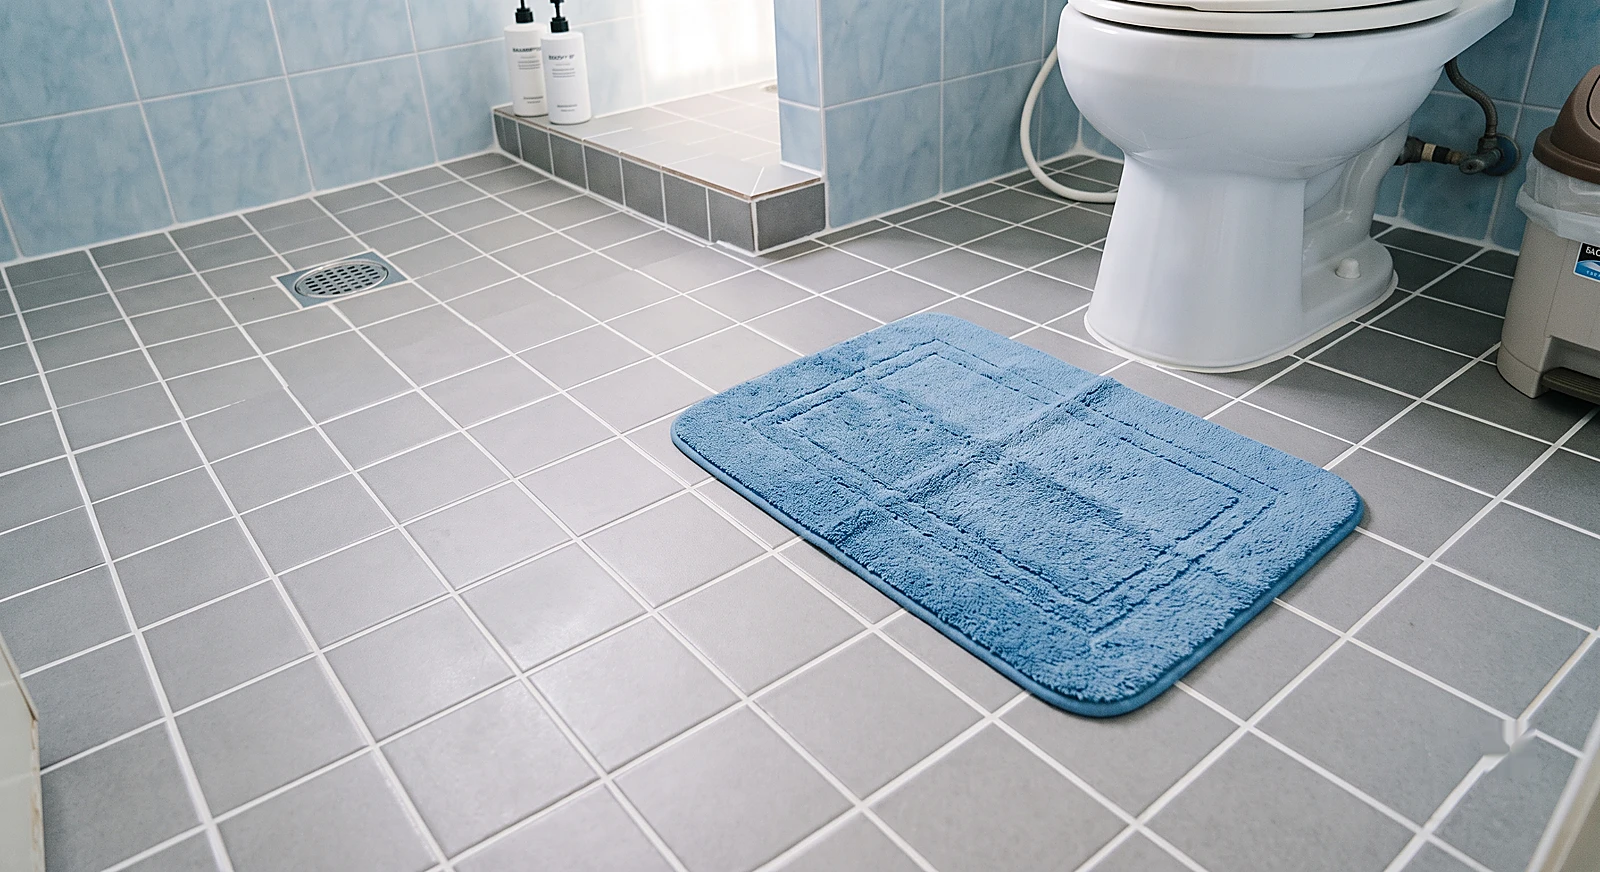
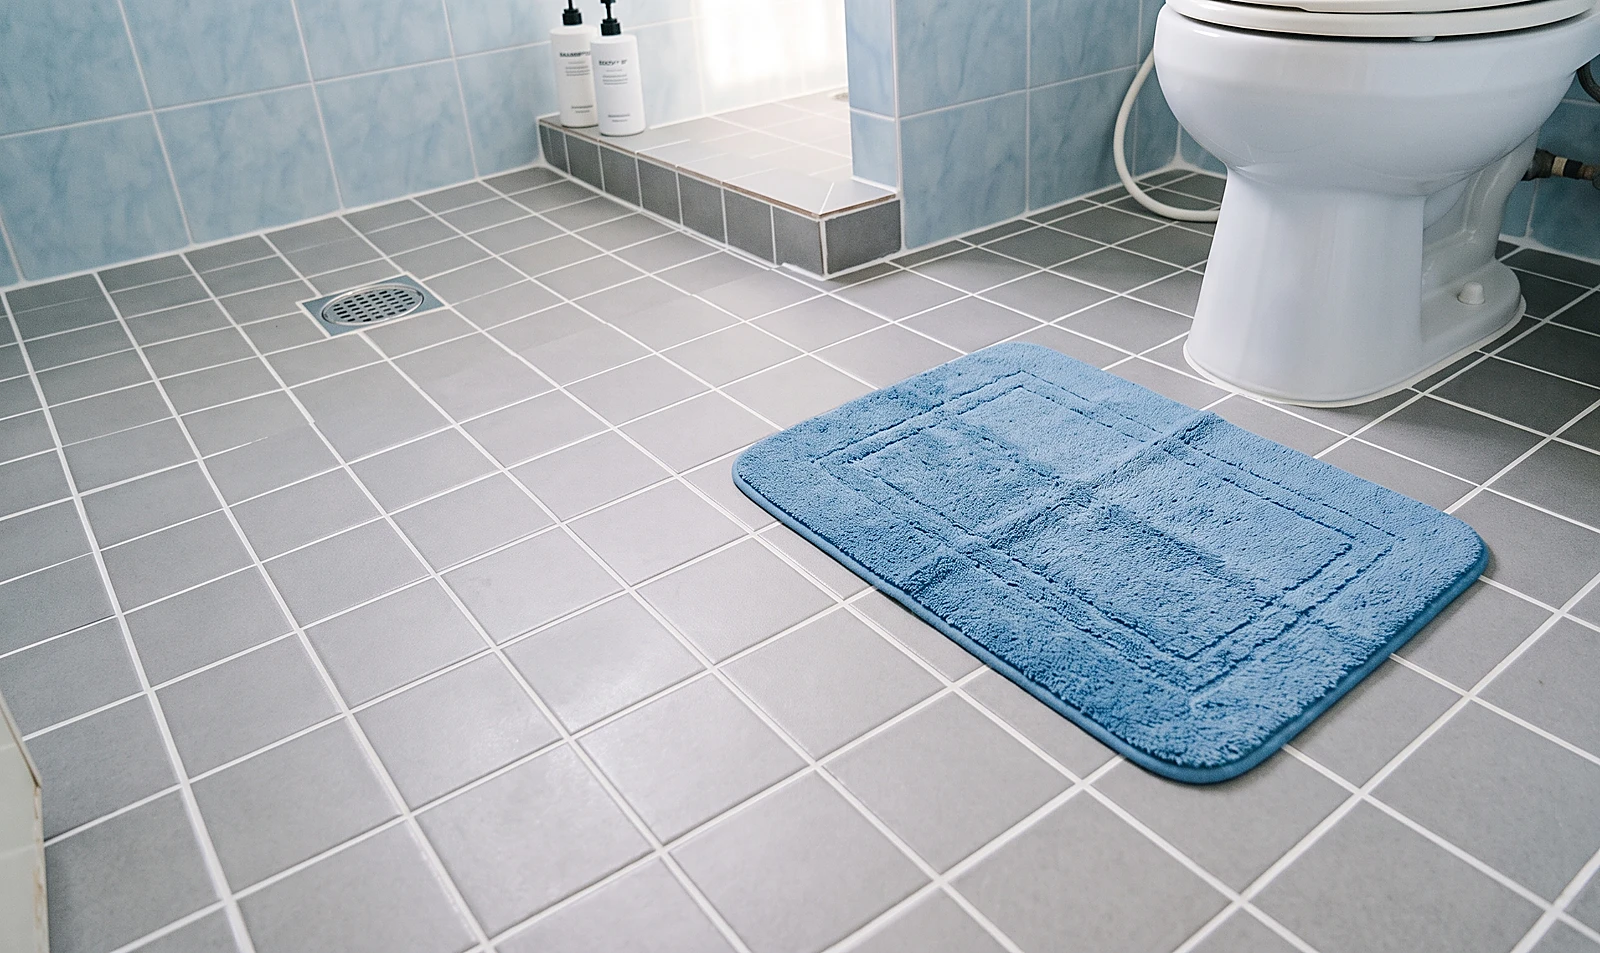
Hero fix: crop out watermark corner instead of inpainting
Inpainting (twice now) left a visible edit trace on the full-size
hero as displayed in the article content page, even after tightening
the mask. Switched to a straight crop of the right edge (2816->2580px
width, watermark sat at x~2612-2703) instead - guarantees zero patch
artifact since nothing is synthesized, just removed. New aspect ratio
1600x953 (was 1600x872), width/height attributes updated on both the
casestudy card thumb and the article's hero figure.

diff --git a/post/why-bathroom-grout-leaks-recur/index.html b/post/why-bathroom-grout-leaks-recur/index.html
@@ -177,7 +177,7 @@ footer a:hover{color:#fff}
   <article>
     <p>เจ้าของบ้านส่วนใหญ่คิดว่าห้องน้ำรั่วเพราะกระเบื้องเสีย แต่กระเบื้องเนื้อแน่นกันน้ำได้ดีอยู่แล้วตราบใดที่ไม่แตกร้าว จุดที่แพ้จริงๆ เกือบทุกครั้งคือแนวยาแนวระหว่างแผ่น — และถ้าซ่อมโดยไม่รู้กลไกนี้ก็มักวนกลับมารั่วที่เดิมซ้ำอีก</p>
     <p>เคสนี้จะเจาะกลไกว่าทำไมยาแนวถึงเป็นจุดอ่อนตัวจริง พร้อมแนวทางเลือกซ่อมให้ตรงกับอาการจริงของแต่ละบ้าน ตั้งแต่กระเบื้องยังสวยรั่วแค่ตามร่อง ไปจนถึงห้องน้ำสร้างใหม่ที่ยังไม่ปูกระเบื้อง</p>
-    <figure class="hero"><img src="/img/post/why-bathroom-grout-leaks-recur-00.webp" alt="ทำไมห้องน้ำถึงรั่วซ้ำ ทั้งที่ซ่อมมาแล้วหลายรอบ — พื้นห้องน้ำกระเบื้องลายตารางพร้อมพรมเช็ดเท้าสีฟ้าวางอยู่หน้าโถสุขภัณฑ์" width="1600" height="872"><figcaption>พื้นกระเบื้องห้องน้ำที่ดูสภาพดีทั้งผืน — จุดที่มักแพ้จริงไม่ใช่ตัวกระเบื้อง แต่คือแนวยาแนวระหว่างแผ่น</figcaption></figure>
+    <figure class="hero"><img src="/img/post/why-bathroom-grout-leaks-recur-00.webp" alt="ทำไมห้องน้ำถึงรั่วซ้ำ ทั้งที่ซ่อมมาแล้วหลายรอบ — พื้นห้องน้ำกระเบื้องลายตารางพร้อมพรมเช็ดเท้าสีฟ้าวางอยู่หน้าโถสุขภัณฑ์" width="1600" height="953"><figcaption>พื้นกระเบื้องห้องน้ำที่ดูสภาพดีทั้งผืน — จุดที่มักแพ้จริงไม่ใช่ตัวกระเบื้อง แต่คือแนวยาแนวระหว่างแผ่น</figcaption></figure>
     <section class="step">
       <h2><span class="n">01</span>ปัญหาจริงไม่ได้อยู่ที่กระเบื้อง — อยู่ที่แนวยาแนว</h2>
       <p>ยาแนวปูนธรรมดา แม้จะเป็นสูตร "กันซึม" ทั่วไปตามท้องตลาด ก็ยังเป็นวัสดุซีเมนต์ที่มีรูพรุนอยู่ดี เมื่อโดนน้ำต่อเนื่อง เช่น พื้นห้องน้ำที่มีน้ำขังบ่อย มันจะทำหน้าที่เหมือนฟองน้ำ ดูดน้ำผ่านรูพรุนนั้นลงไปสะสมอยู่ใต้กระเบื้องทีละน้อยเป็นเดือนเป็นปี นี่คือสาเหตุจริงของคราบรั่วซึม ไม่ใช่กระเบื้องแตก</p>

diff --git a/casestudy/index.html b/casestudy/index.html
@@ -284,7 +284,7 @@ img{height:auto}
 
   <article class="case" data-cat="bath tips">
     <a class="thumb" href="/post/why-bathroom-grout-leaks-recur">
-      <img loading="lazy" src="/img/post/why-bathroom-grout-leaks-recur-00.webp" alt="ทำไมห้องน้ำถึงรั่วซ้ำ ทั้งที่ซ่อมมาแล้วหลายรอบ" width="1600" height="872">
+      <img loading="lazy" src="/img/post/why-bathroom-grout-leaks-recur-00.webp" alt="ทำไมห้องน้ำถึงรั่วซ้ำ ทั้งที่ซ่อมมาแล้วหลายรอบ" width="1600" height="953">
       <span class="cat bath">ห้องน้ำ</span>
     </a>
     <div class="body">
